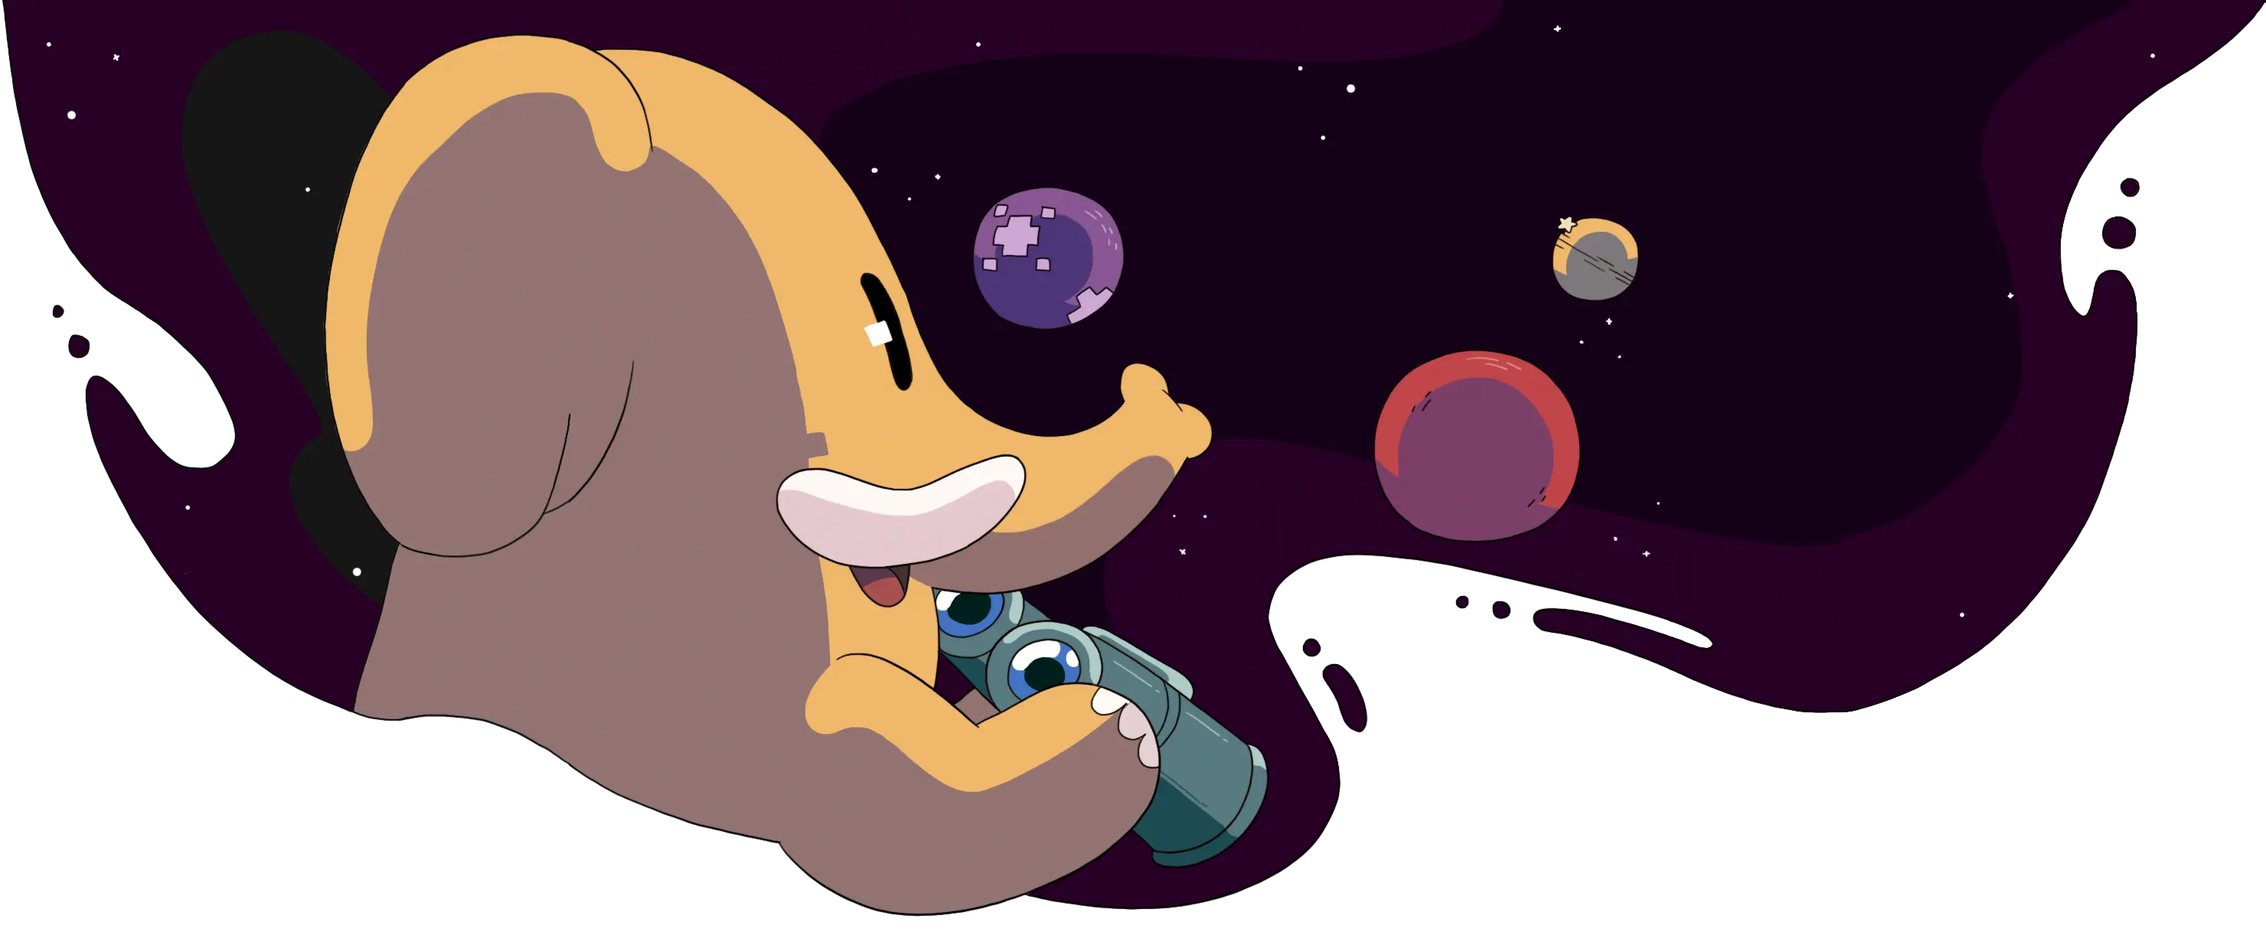
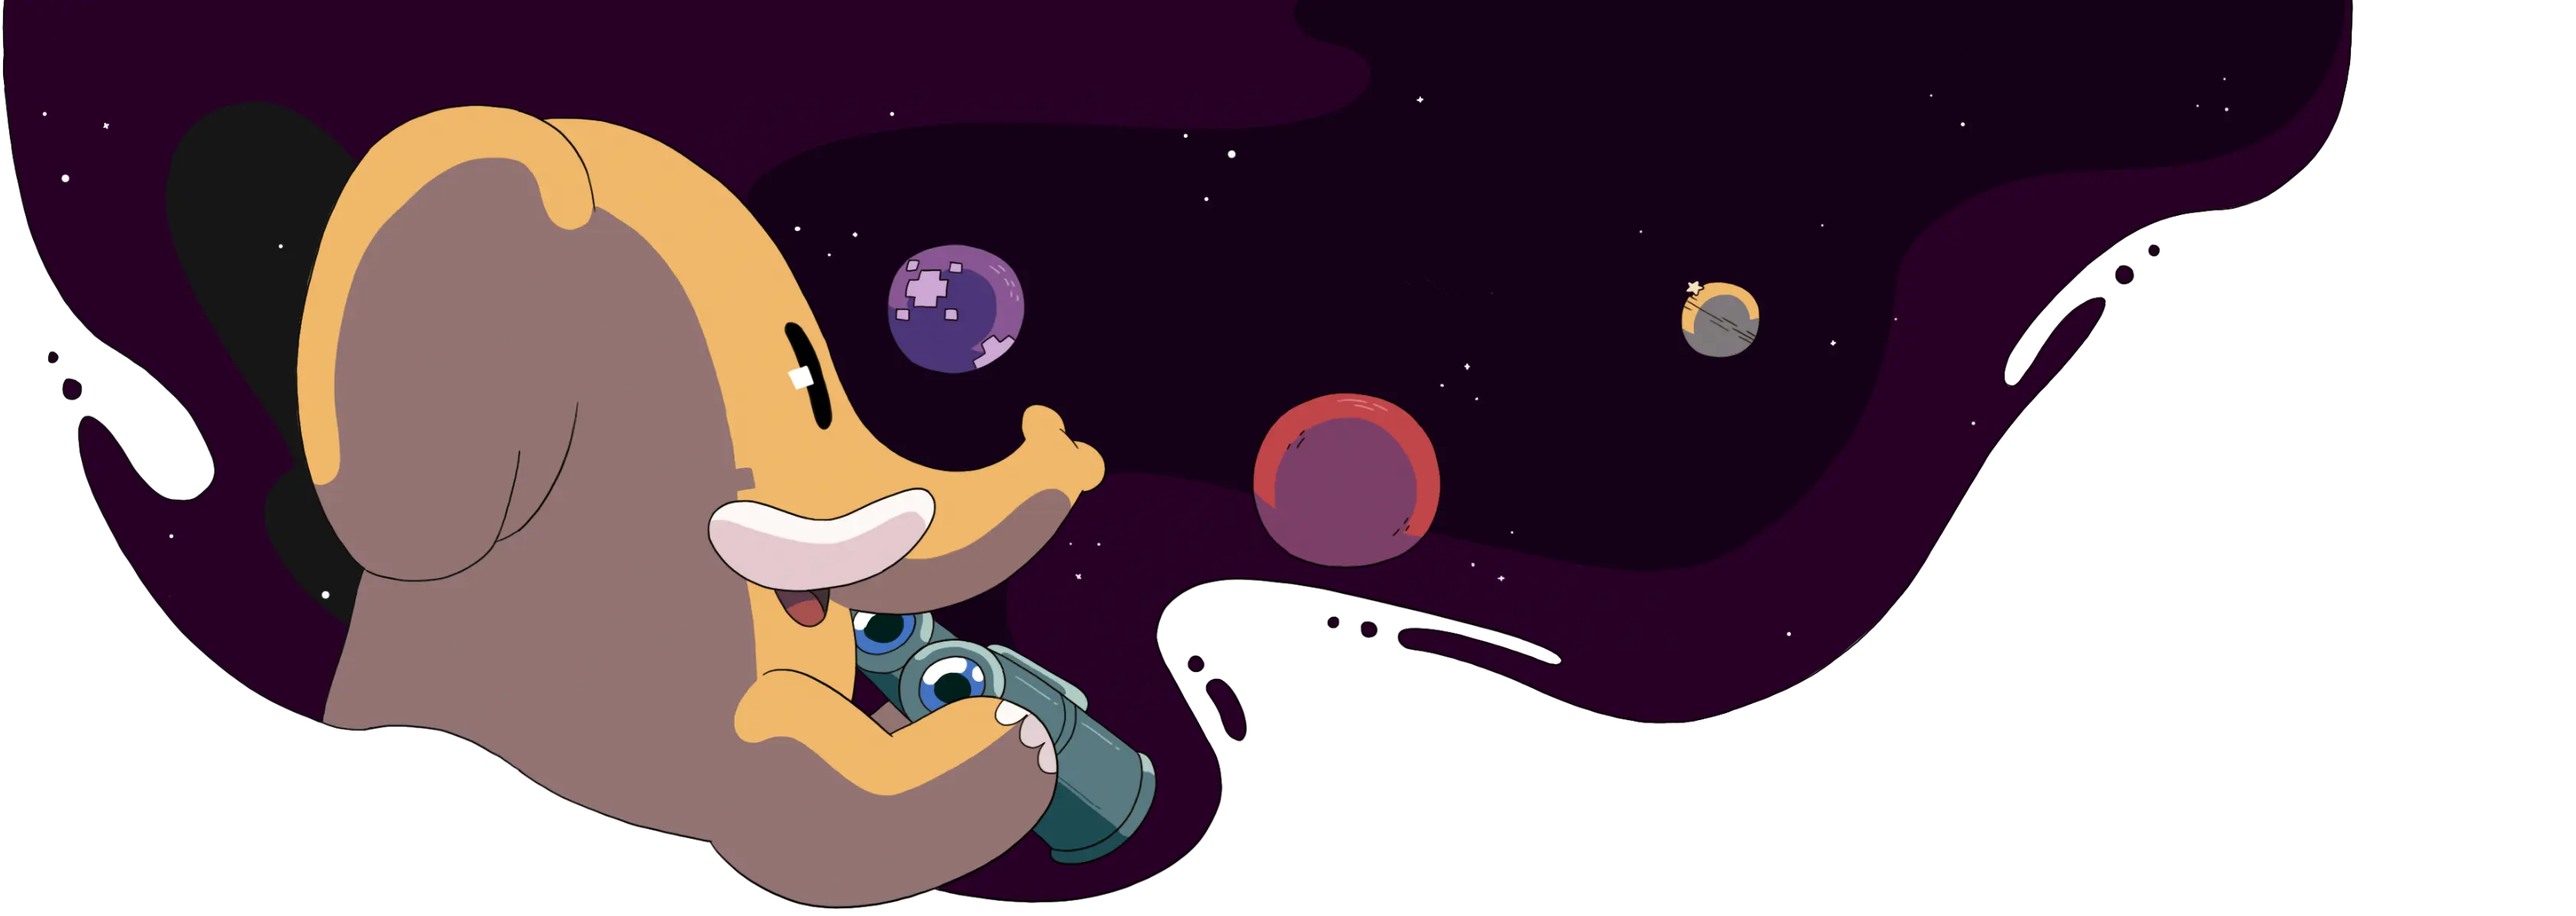
update home page hero asset

diff --git a/pages/index.tsx b/pages/index.tsx
@@ -34,7 +34,7 @@ export default Home
 
 const HomeHero = () => {
   return (
-    <section className="full-width-bg hero  h-[1230px] pt-[var(--header-area)] text-center text-white">
+    <section className="full-width-bg hero  h-[1197px] pt-[var(--header-area)] text-center text-white">
       <div className="full-width-bg__inner flex flex-col items-center justify-center py-20">
         <h1 className="h1 mb-2 max-w-[17ch]">
           <FormattedMessage
@@ -66,7 +66,7 @@ const HomeHero = () => {
           </LinkButton>
         </div>
       </div>
-      <div className="absolute top-0 left-0 right-0 -z-10 h-[1230px] w-screen bg-[url(/illustrations/home_hero.webp)] bg-cover bg-center bg-no-repeat"></div>
+      <div className="absolute top-0 left-0 right-0 -z-10 h-[1197px] w-screen bg-[url(/illustrations/home_hero.webp)] bg-cover bg-center bg-no-repeat"></div>
     </section>
   )
 }
